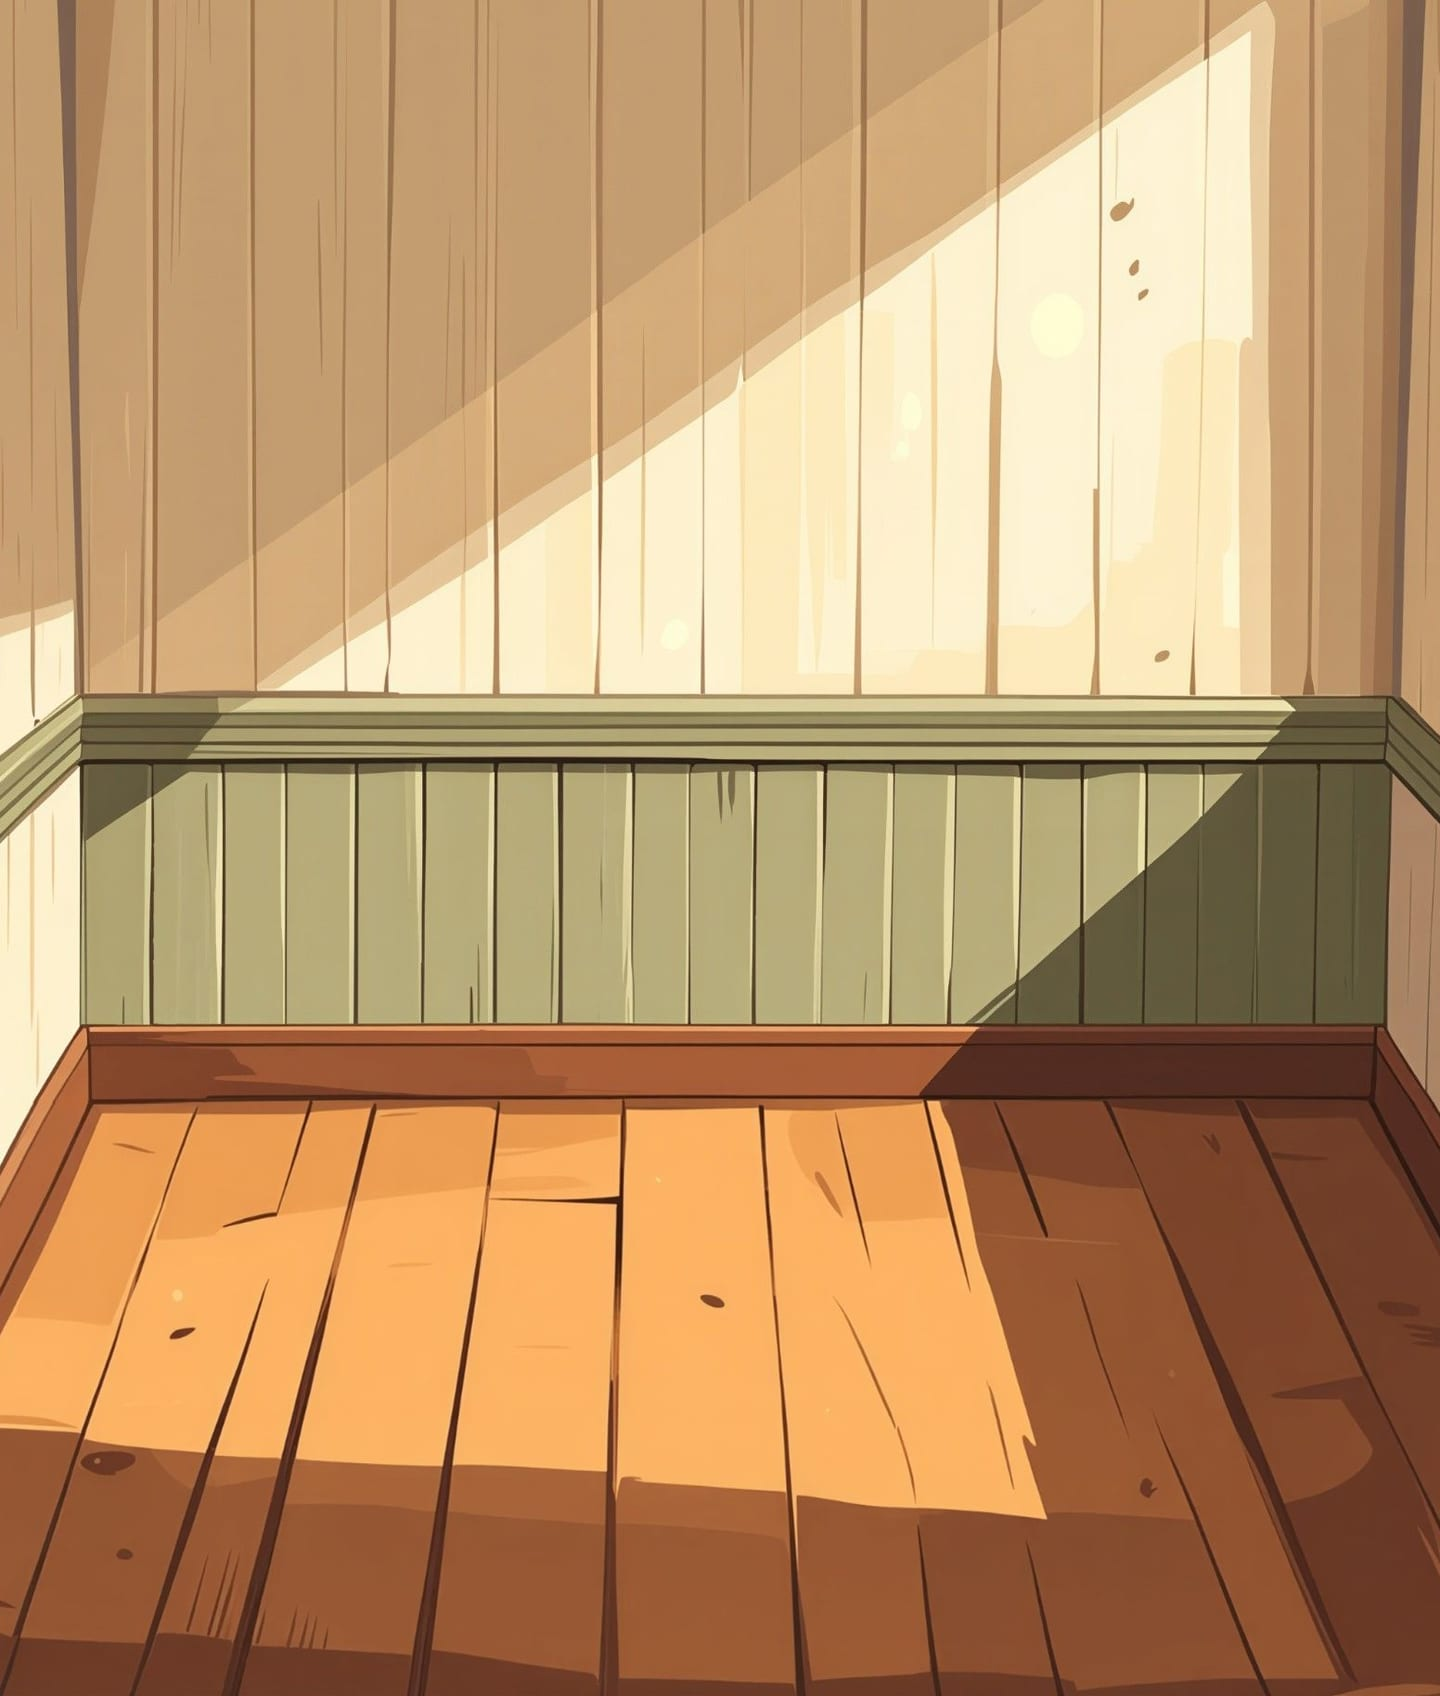
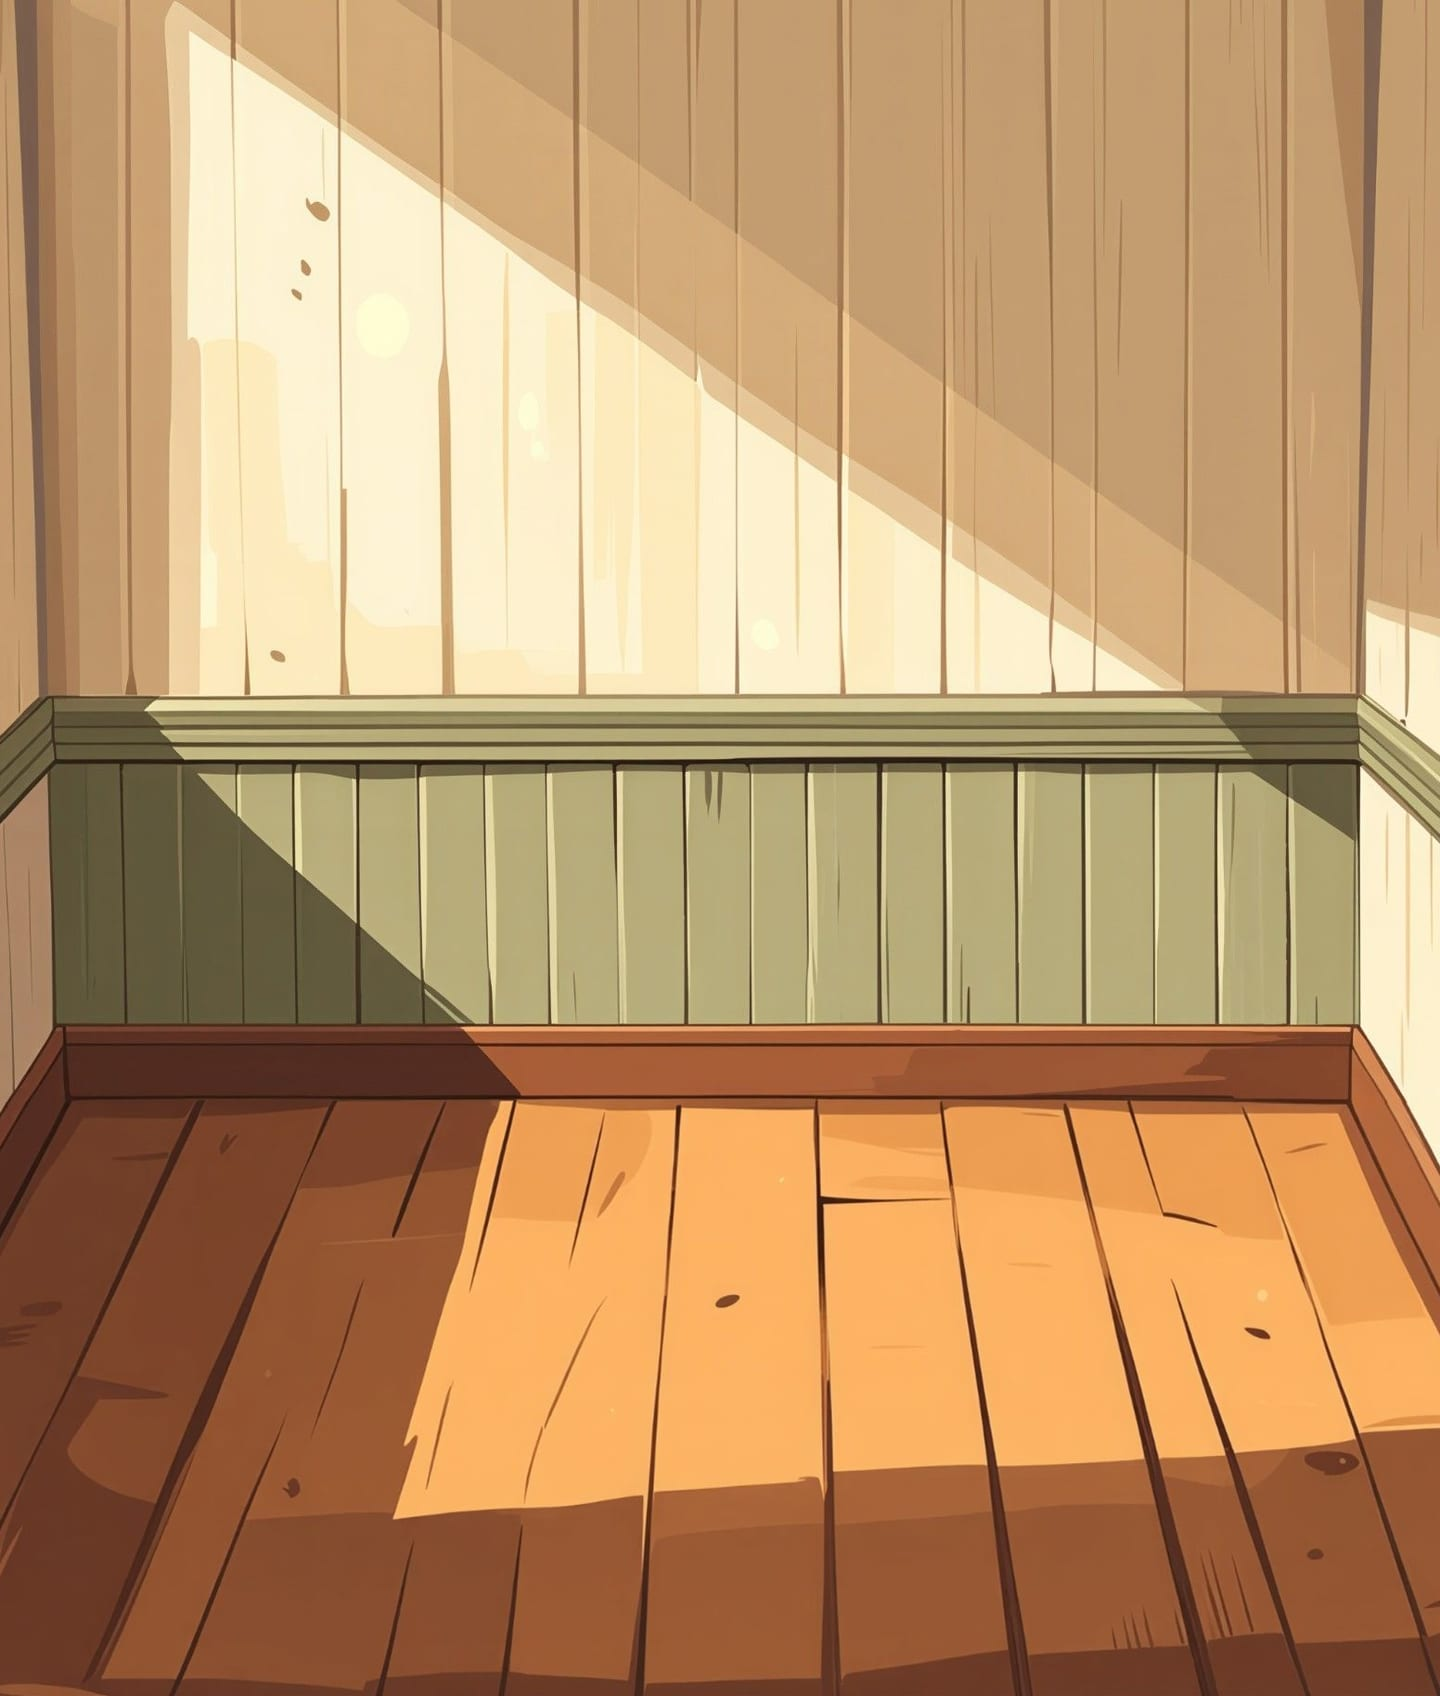
Mirror workshop background so the light falls from the other side

diff --git a/assets/LICENSES.md b/assets/LICENSES.md
@@ -37,7 +37,7 @@
 - [x] `obj_workbench_3`
 - [x] 13.10.2026 (вторая партия, Essential, приватно): новые `room_bg`, `room_paint_bg` (обрезаны сверху и с боков, чтобы плинтус встал посередине), `obj_wall_clock_0..2`, `find_f_sign`
 - [x] 13.10.2026 (третья партия, Essential, приватно): верстак `_0..3` (новый), лампа `_0..2`, окно `_0..2`, все объекты малярной кроме стеллажа с красками, вступление `story_*`, новая `final_card`
-- [x] 13.10.2026 (Essential, приватно): новый фон мастерской `room_bg` с узкими боковыми стенами (пол слегка растянут и кадр подрезан, чтобы плинтус встал на 65%; исходник — `assets/source/raw/room_bg_v3.jpg`, прежние версии — в `assets/source/raw/room_bg_old/`)
+- [x] 13.10.2026 (Essential, приватно): новый фон мастерской `room_bg` с узкими боковыми стенами (отзеркален по горизонтали, пол слегка растянут и кадр подрезан, чтобы плинтус встал на 65%; исходник — `assets/source/raw/room_bg_v3.jpg`, прежние версии — в `assets/source/raw/room_bg_old/`)
 - [x] 13.10.2026 (Essential, приватно): стеллаж с красками `obj_paint_rack_0..3` на белом фоне (версии на стене — в `assets/source/raw/paint_rack_wall/`, в игре не используются)
 - [x] `find_f_photo`, `find_f_screws`, `find_f_note`, `find_f_radio`, `find_f_clock`
 - [x] `final_card`
